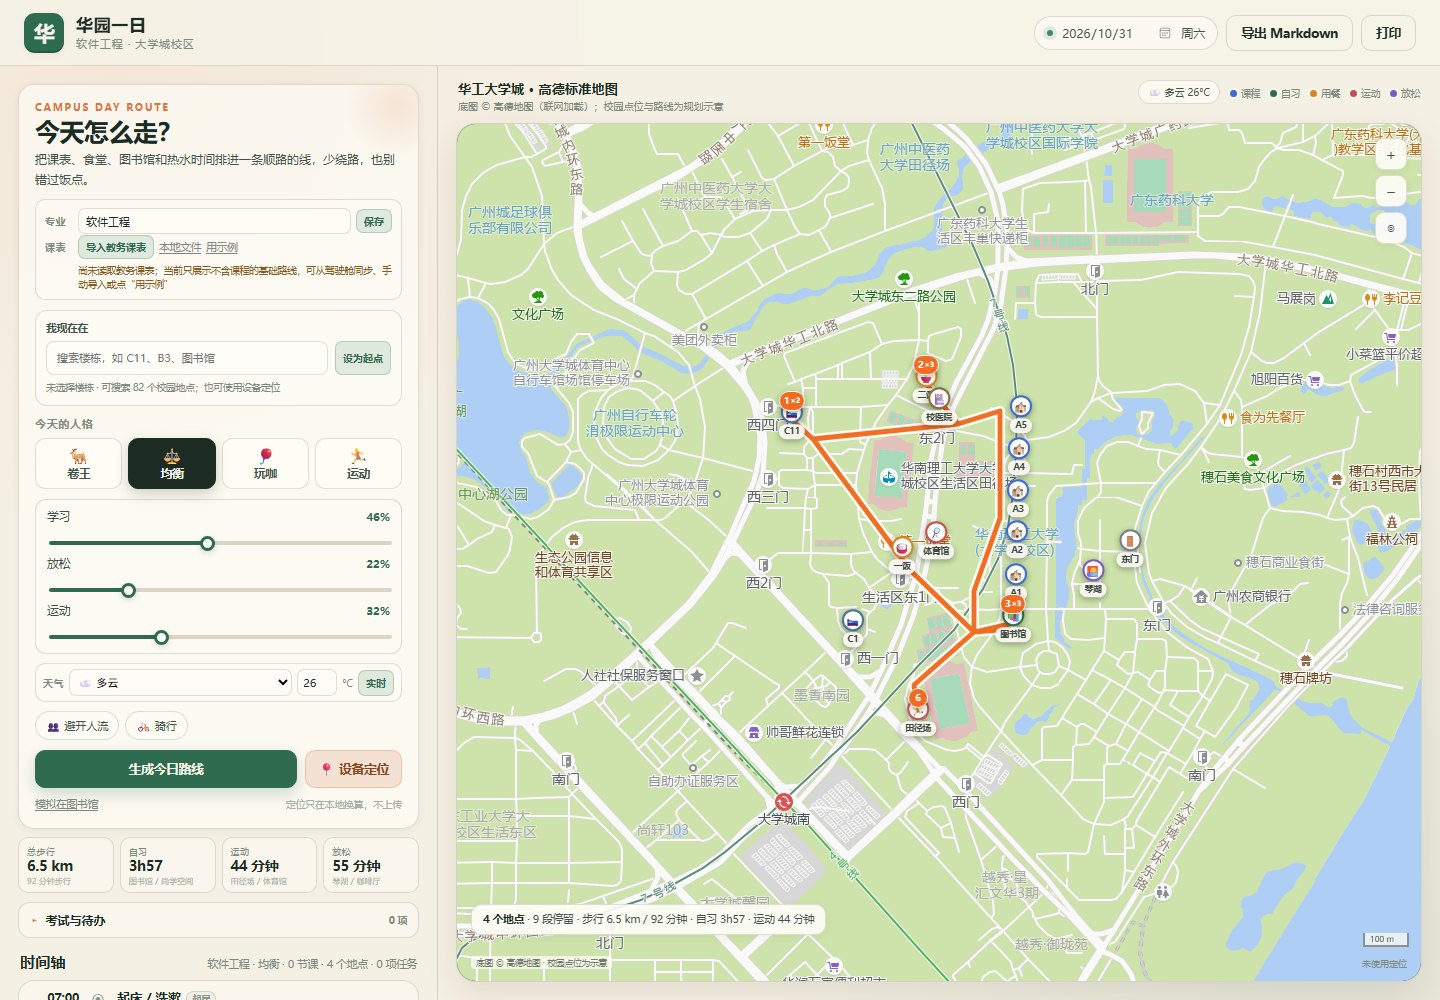
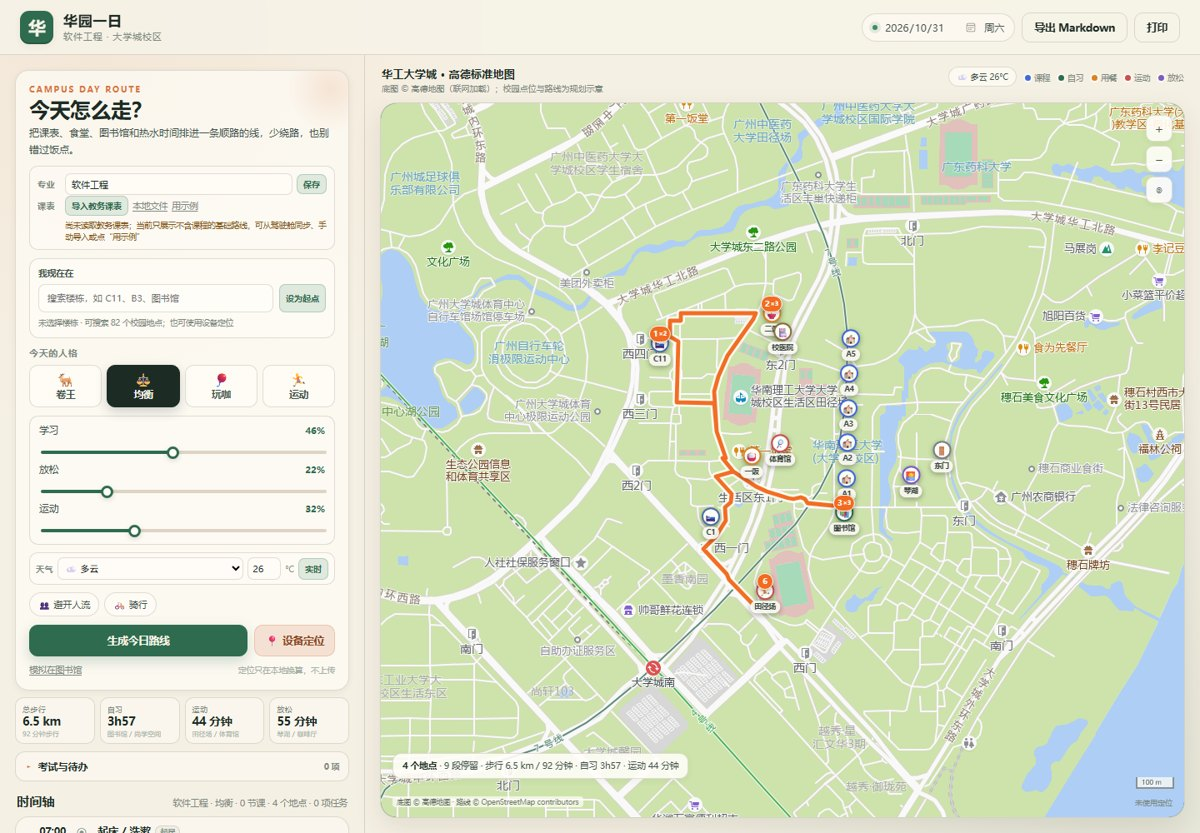
feat: draw walking routes along OSM foot paths
Queries OSM foot routing per stop pair, converts GCJ-02/WGS-84 both ways, and falls back to the campus graph when routing is unavailable.

diff --git a/skills/huayuan-campus-route/public/app.js b/skills/huayuan-campus-route/public/app.js
@@ -117,6 +117,8 @@
   let routeGroup = null;
   let stopGroup = null;
   let gpsGroup = null;
+  let routeSeq = 0;
+  let routeLayers = [];
   const markerById = new Map();
   const CAMPUS_BOUNDS = [
     [CAMPUS.bounds.south, CAMPUS.bounds.west],
@@ -229,6 +231,79 @@
     });
   }
 
+  // ---------- 步行道路线（OSM foot routing） ----------
+
+  const roadCache = new Map();
+
+  function gcj02ToWgs84(lat, lng) {
+    let wlat = lat;
+    let wlng = lng;
+    for (let i = 0; i < 7; i += 1) {
+      const gcj = R.wgs84ToGcj02(wlat, wlng);
+      wlat -= gcj.lat - lat;
+      wlng -= gcj.lng - lng;
+    }
+    return { lat: wlat, lng: wlng };
+  }
+
+  async function fetchRoadLeg(from, to) {
+    const key = `${from.lat.toFixed(6)},${from.lng.toFixed(6)}|${to.lat.toFixed(6)},${to.lng.toFixed(6)}`;
+    if (roadCache.has(key)) return roadCache.get(key);
+    const a = gcj02ToWgs84(from.lat, from.lng);
+    const b = gcj02ToWgs84(to.lat, to.lng);
+    const url =
+      `https://routing.openstreetmap.de/routed-foot/route/v1/foot/${a.lng},${a.lat};${b.lng},${b.lat}` +
+      '?overview=full&geometries=geojson&steps=false';
+    const controller = new AbortController();
+    const timer = setTimeout(() => controller.abort(), 7000);
+    try {
+      const response = await fetch(url, { signal: controller.signal, cache: 'force-cache' });
+      if (!response.ok) throw new Error(`HTTP ${response.status}`);
+      const data = await response.json();
+      if (!data.routes || !data.routes[0] || !data.routes[0].geometry) throw new Error('NO_ROUTE');
+      const points = data.routes[0].geometry.coordinates.map(([lng, lat]) => {
+        const gcj = R.wgs84ToGcj02(lat, lng);
+        return [gcj.lat, gcj.lng];
+      });
+      roadCache.set(key, points);
+      return points;
+    } catch (error) {
+      roadCache.set(key, null);
+      return null;
+    } finally {
+      clearTimeout(timer);
+    }
+  }
+
+  function drawRoute(latlngs, road) {
+    if (!routeGroup) return;
+    for (const layer of routeLayers) routeGroup.removeLayer(layer);
+    routeLayers = [];
+    if (latlngs.length < 2) return;
+    routeLayers.push(
+      L.polyline(latlngs, {
+        color: '#fffdf7',
+        weight: 10,
+        opacity: 0.9,
+        lineCap: 'round',
+        lineJoin: 'round',
+      }).addTo(routeGroup)
+    );
+    routeLayers.push(
+      L.polyline(latlngs, {
+        color: '#f26b21',
+        weight: 4.8,
+        opacity: 0.98,
+        lineCap: 'round',
+        lineJoin: 'round',
+      }).addTo(routeGroup)
+    );
+    const attribution = $('mapAttribution');
+    if (attribution && road) {
+      attribution.textContent = '底图 © 高德地图 · 路线 © OpenStreetMap contributors · 时长按校园步行估算';
+    }
+  }
+
   function renderRoute(plan) {
     if (!map) return;
     if (routeGroup) map.removeLayer(routeGroup);
@@ -237,24 +312,45 @@
     routeGroup = L.layerGroup().addTo(map);
     stopGroup = L.layerGroup().addTo(map);
     gpsGroup = L.layerGroup().addTo(map);
+    routeLayers = [];
+    routeSeq += 1;
+    const seq = routeSeq;
 
     const points = (plan.route && plan.route.points) || [];
     const latlngs = points.map((point) => [point.lat, point.lng]);
-    if (latlngs.length > 1) {
-      L.polyline(latlngs, {
-        color: '#fffdf7',
-        weight: 10,
-        opacity: 0.9,
-        lineCap: 'round',
-        lineJoin: 'round',
-      }).addTo(routeGroup);
-      L.polyline(latlngs, {
-        color: '#f26b21',
-        weight: 4.8,
-        opacity: 0.98,
-        lineCap: 'round',
-        lineJoin: 'round',
-      }).addTo(routeGroup);
+    drawRoute(latlngs, false);
+
+    const stopPoints = [];
+    for (const stop of plan.stops || []) {
+      const poi = POI.get(stop.poiId);
+      if (!poi) continue;
+      const last = stopPoints[stopPoints.length - 1];
+      if (last && Math.abs(last.lat - poi.lat) < 1e-7 && Math.abs(last.lng - poi.lng) < 1e-7) continue;
+      stopPoints.push(poi);
+    }
+    if (stopPoints.length > 1) {
+      Promise.all(
+        stopPoints.slice(0, -1).map((from, index) => fetchRoadLeg(from, stopPoints[index + 1]))
+      ).then((legs) => {
+        if (seq !== routeSeq) return;
+        const merged = [];
+        let missed = 0;
+        for (let i = 0; i < legs.length; i += 1) {
+          const leg = legs[i];
+          const from = stopPoints[i];
+          const to = stopPoints[i + 1];
+          if (leg && leg.length > 1) {
+            for (const point of leg) {
+              const last = merged[merged.length - 1];
+              if (!last || last[0] !== point[0] || last[1] !== point[1]) merged.push(point);
+            }
+          } else {
+            missed += 1;
+            merged.push([from.lat, from.lng], [to.lat, to.lng]);
+          }
+        }
+        if (merged.length > 1) drawRoute(merged, missed < legs.length);
+      });
     }
 
     const grouped = new Map();

diff --git a/skills/huayuan-campus-route/public/index.html b/skills/huayuan-campus-route/public/index.html
@@ -238,7 +238,7 @@
           </div>
 
           <div class="map-foot">
-            <div class="map-attribution">底图 © 高德地图 · 校园点位为示意</div>
+            <div class="map-attribution" id="mapAttribution">底图 © 高德地图 · 校园点位为示意</div>
             <div class="gps-state" id="gpsState">未使用定位</div>
           </div>
         </div>

diff --git a/README.md b/README.md
@@ -39,6 +39,8 @@
 >
 > 版本 0.13.6 修复**楼栋下拉栏随页面滚动错位**：页面或侧栏滚动时，下拉列表会实时跟随输入框重新定位；输入框滚出窗口后自动收起。
 >
+> 版本 0.13.9 将步行路线**改为沿道路绘制**：页面按停留点调用 OSM foot routing，做 GCJ-02 ↔ WGS-84 转换后叠加到高德标准地图；请求失败或离线时回退校园步行图直线。路线只影响显示，计划时长仍按校园步行估算。
+>
 > 版本 0.13.8 将**路线底图换成高德标准地图**（GCJ-02，联网加载）：保留校园 POI、路线、编号和定位叠加，地图可缩放/拖动；Leaflet 资源放在本地 `public/vendor/`，不申请高德 API Key，底部保留“底图 © 高德地图”标注。
 >
 > 版本 0.13.7 将**三个页面标签设为吸顶导航**：今日安排、全部待办、可参与事项在页面滚动时始终固定在顶部，并适配桌面、窄屏和手机高度。
@@ -376,7 +378,7 @@ node skills/huayuan-campus-route/test/check-route.js
 - 每段路算步行/骑行时间，课间人流、天气、高峰会加时；产物 `day-route.json` / `day-route.md` 带每段依据、开放时间校验和天气说明。
 - 可视化页面 `skills/huayuan-campus-route/public/index.html`，**不用起服务器**，双击即可：切画像、拖权重、选天气、开骑行、导入课表/考试、加待办、点“定位我”或“模拟在图书馆”、导出 Markdown。
 - 只覆盖**大学城校区**；读到五山/广州国际校区会返回 `CAMPUS_UNSUPPORTED`，不硬套。图书馆、热水、门禁为官方来源；饭堂/体育馆时段是参考值，页面标“以现场为准”。
-- 设备定位只在用户点击后读取，浏览器本地换算 WGS-84 → GCJ-02，不上传；被拒绝或超时会明确提示。地图底图是**高德标准地图**（GCJ-02），路线与点位是规划叠加层，不是导航底图，不接实时路况 API。
+- 设备定位只在用户点击后读取，浏览器本地换算 WGS-84 → GCJ-02，不上传；被拒绝或超时会明确提示。地图底图是**高德标准地图**（GCJ-02），路线与点位是规划叠加层，不是导航底图，不接实时路况 API。步行线优先用 OSM foot routing 沿道路绘制（会把起终点坐标发给 routing.openstreetmap.de，不带身份信息），请求失败或离线时回退校园步行图的直线；时长仍按校园步行估算。
 - 20 项扩展逐条状态、复用点与建议下一步：[`docs/ROADMAP-20.md`](docs/ROADMAP-20.md)。
 - 完整使用说明（页面按钮、CLI 参数、常见问题）：[`skills/huayuan-campus-route/USAGE.md`](skills/huayuan-campus-route/USAGE.md)。
 
